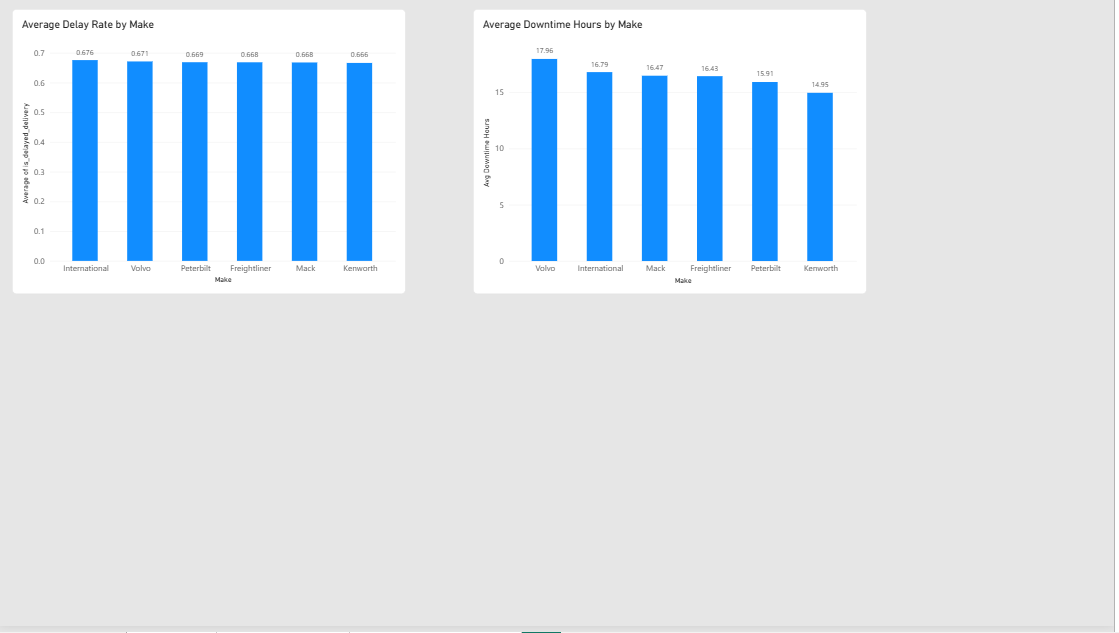
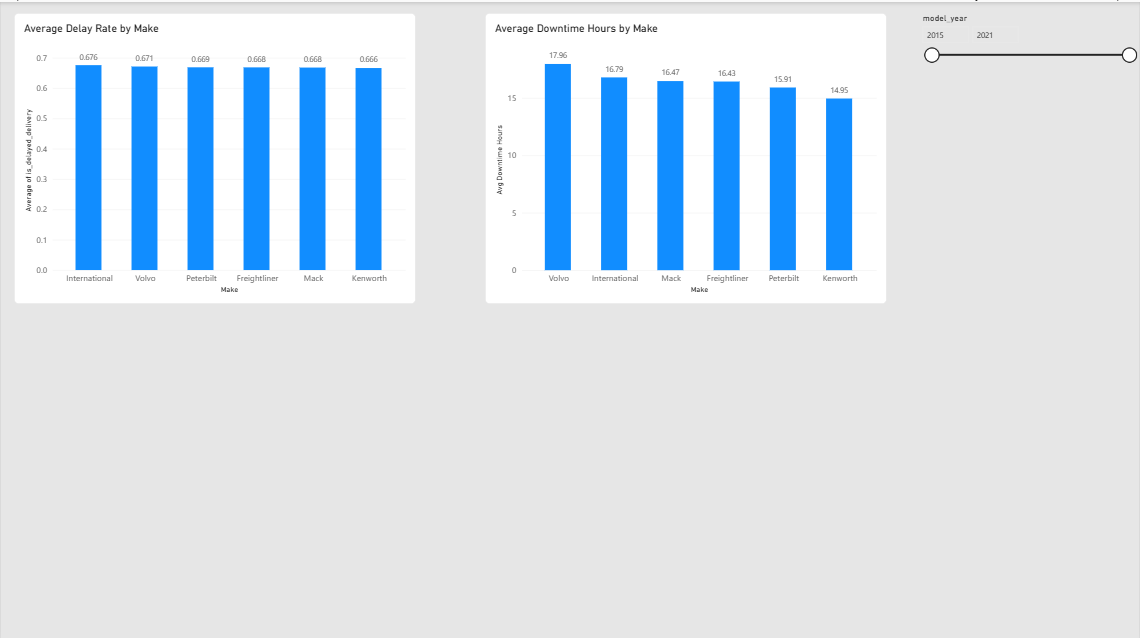
docs(dashboard): update README for fleet equipment dashboard
- Document all 5 source tables and the dimension/fact relationship structure
- Add screenshots and page-by-page overview

diff --git a/dashboard/03_fleet_equipment_analysis/README.md b/dashboard/03_fleet_equipment_analysis/README.md
@@ -5,15 +5,24 @@ from [`03_fleet_equipment_analysis.ipynb`](../../notebooks/03_fleet_equipment_an
 
 ## Data Source
 
-Built on `data/processed/clean_fleet_analysis.csv`, the output of
+Built on five tables: `data/processed/clean_fleet_analysis.csv`, the output of
 [`src/delivery_pipeline.py`](../../src/delivery_pipeline.py) (run with
-`include_fleet=True, include_routes=False`). Two additional tables are loaded
-directly from `data/raw/` rather than through the pipeline, since they have a
-different grain than the load-level output: `fuel_purchases.csv` (one row per
-fuel transaction) and `truck_utilization_metrics.csv` (one row per truck per
-month). Features not present in the raw pipeline output (e.g. the
-`<=2015`/`>2015` truck age grouping) are derived directly in Power Query,
-mirroring the feature engineering done in the notebook.
+`include_fleet=True, include_routes=False`), plus four tables loaded directly
+from `data/raw/`:
+
+- **`trucks.csv`** and **`trailers.csv`** - `clean_fleet_analysis.csv` only
+  contains trucks/trailers that appear in at least one load. The 28 trucks
+  with status Maintenance/Inactive have zero trips and would otherwise be
+  missing from fleet composition charts.
+- **`fuel_purchases.csv`** (one row per fuel transaction) and
+  **`truck_utilization_metrics.csv`** (one row per truck per month) - both
+  have a different grain than the load-level pipeline output.
+
+`trucks` and `trailers` act as dimension tables, related to
+`clean_fleet_analysis`, `fuel_purchases`, and `truck_utilization_metrics` via
+`truck_id`/`trailer_id` in the data model, so slicers on truck attributes filter across all pages. Features not present in the raw tables
+(e.g. the `<=2015`/`>2015` truck age grouping) are derived directly in Power
+Query, mirroring the feature engineering done in the notebook.
 
 ## What's in the Dashboard
 
@@ -22,10 +31,12 @@ mirroring the feature engineering done in the notebook.
   average utilization rate
 - **Fleet composition:** trucks by make and status, model year distribution,
   trailer type split (bar charts)
+- **Data quality callout:** note on the unreliable `fuel_purchases`
+  city/state fields (0/15 correct in a spot-check)
 
 **Page 2 - Trends over Time**
 - **Diesel price per gallon over time** (line chart), the clearest time trend
-  found across the whole project
+  found across the whole project until now, with a short annotation
 - **Utilization rate, maintenance cost, and downtime hours over time**
   (line charts)
 
@@ -36,10 +47,12 @@ mirroring the feature engineering done in the notebook.
   statistically significant truck-level effect was found (permutation test,
   p = 0.0087)
 
+Slicers for make and date range are available to explore the data further.
+
 ## Screenshots
 
 ![Dashboard overview](screenshots/overview.png)
-*Page 1: KPI cards and fleet composition.*
+*Page 1: KPI cards, fleet composition, and data quality note.*
 
 <details>
 <summary>Trends over time & equipment breakdown</summary>
